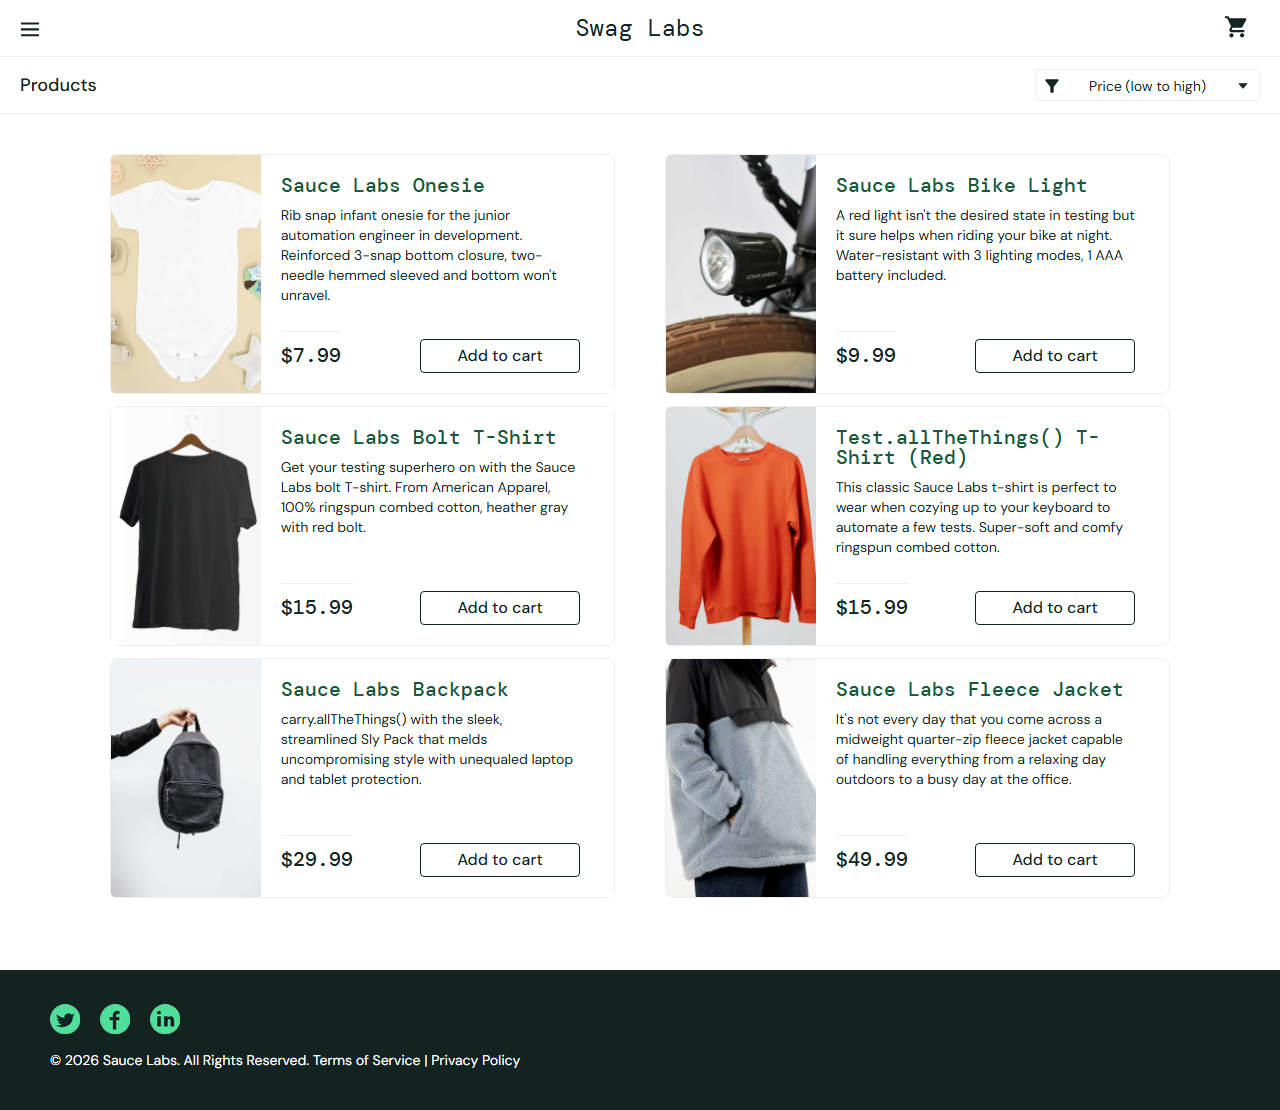
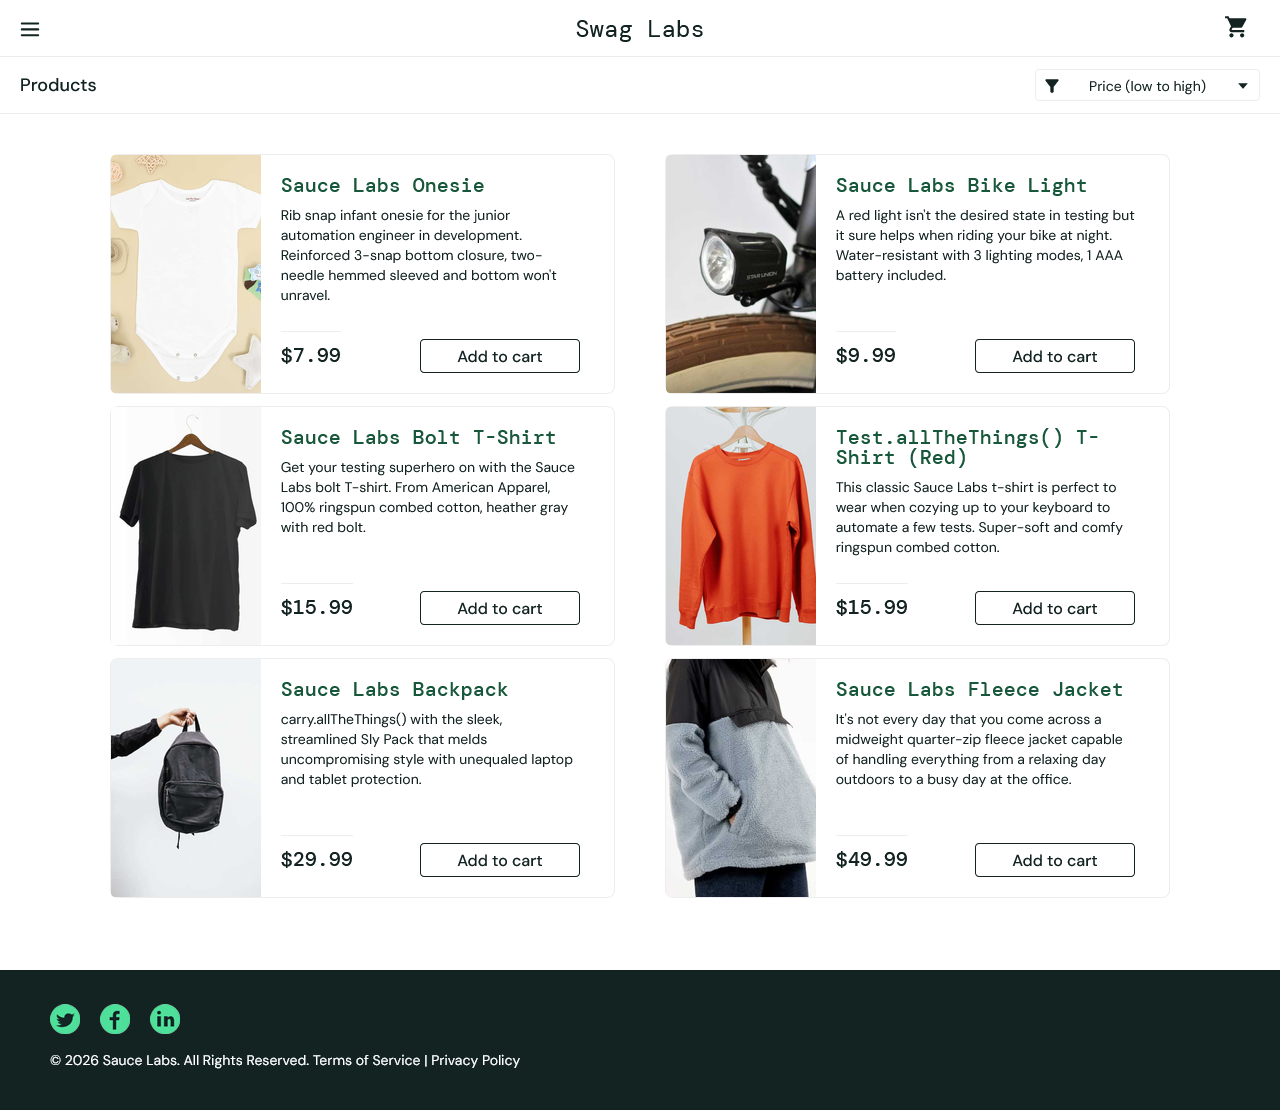
fix: update sorting condition to include equal prices in dynamic inventory test

diff --git a/tests/inventory/dynamic-sorting.spec.ts b/tests/inventory/dynamic-sorting.spec.ts
@@ -16,6 +16,5 @@ test.describe('Dynamic inventory sorting', () => {
 
     expect(numericPrices).toHaveLength(6);
     expect(numericPrices).toEqual([...numericPrices].sort((first, second) => first - second));
-    expect(numericPrices.every((price, index) => index === 0 || price > numericPrices[index - 1])).toBeTruthy();
-  });
+    expect(numericPrices.every((price, index) => index === 0 || price >= numericPrices[index - 1])).toBeTruthy();  });
 });
